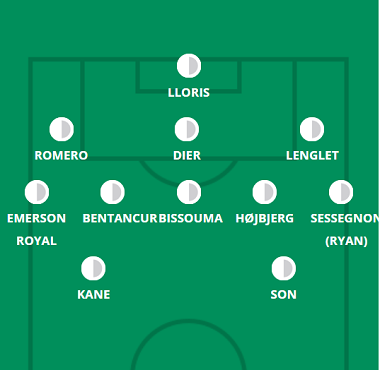
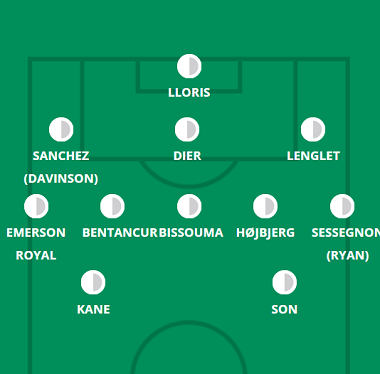
city e spurs

diff --git a/city.html b/city.html
@@ -68,7 +68,7 @@
             <hgroup>
                 <h1> Provável Escalação</h1>
                 <h2 class="direita"> por FabioVascão </h2>
-                <h3 class="direita"> Atualizado em 21/Outubro/2022 </h3>
+                <h3 class="direita"> Atualizado em 28/Outubro/2022 </h3>
             </hgroup>
     
             <h2 class="time"> <img src="_fotos/_logos/logocity.png" />Manchester City</h2>
@@ -77,9 +77,9 @@
                     <img src="_fotos/_dinamicas/city.png" />
                 </figure>
             </aside>
-                <div class="escalacao"><h2 class="titulo">Ultimas Notícias</h2> <h4><p>Kalvin Phillips (ombro) e Kyle Walker (virilha) permanecem de fora, mas John Stones (músculo posterior da coxa) está de volta ao elenco neste fim de semana, tendo voltado a treinar nos últimos dias. O City teve uma semana inteira de folga em que outras equipes estão chegando à 13° Rodada com menos de 72 horas de tempo de recuperação, então a fadiga não deve ser considerada para os atuais campeões. Todos os candidatos habituais devem estar a postos para a visita do Brighton, então, com as recorrentes decisões a serem tomadas sobre qual combinação de zagueiros se junta a João Cancelo na defesa e quem acompanha Phil Foden, Bernardo Silva, Erling Haaland, Kevin De Bruyne e Rodri mais à frente - este quinteto teve apenas um banco entre eles nos últimos oito jogos do campeonato, sendo esse o respiro de De Bruyne na vitória por 6-0 sobre o Nottingham Forest. O consenso entre os especialistas em previsão de equipes parece ser que ter Bernardo Silva e Ilkay Gundogan no time é um exagero contra um time mais conhecido por jogo baseado em posse de bola do que contra-ataques rápidos, então o alemão pode abrir caminho para acomodar o retorno de Jack Grealish, que estava em boa forma antes de ser taticamente no banco na derrota em Anfield. Na retaguarda, e assumindo que Stones não está apto para começar, estão três de quatro de Manuel Akanji, Ruben Dias, Aymeric Laporte e Nathan Ake. A ameaça de Leandro Trossard pode convencer Guardiola a optar por Akanji sobre Cancelo na lateral-direita e deixar Ruben Dias com uma corrida livre como zagueiro do lado direito, deixando Aymeric Laporte e Nathan Ake brigando pelo outro zagueiro - embora esta é toda a conjectura usual baseada em muito pouco. Laporte ainda está trabalhando para voltar à forma física e foi contratado exclusivamente para a Liga dos Campeões recentemente, mas com a viagem no meio da semana a Dortmund talvez marcada para ser um jogo mais intenso, Guardiola pode optar por colocá-lo de volta ao serviço doméstico em casa. solo. Geralmente avesso a mexer muito com uma dupla de zagueiro que está ronronando, o técnico do City acaba de ver seu time sofrer quatro gols nos últimos três jogos da liga.</p></h4><br>
+                <div class="escalacao"><h2 class="titulo">Ultimas Notícias</h2> <h4><p>Kalvin Phillips (ombro) e Kyle Walker (virilha) permanecem de fora, enquanto Erling Haaland terá que ser avaliado antes do jogo do Leicester, depois que uma combinação de fadiga, febre e uma pancada levou à sua retirada no intervalo do Dortmund na terça-feira. João Cancelo também jogou contra a gripe no primeiro tempo da partida, mas é a pancada no pé de Haaland que é a principal preocupação, e não a gripe, com Pep Guardiola dizendo em seu pré-jogo que o City teria que ver como o jogo livre marcando o norueguês "se sente em seus pés" após o treino de sexta-feira. Ele acrescentou, olhando pelo lado positivo, que Haaland estava "se sentindo melhor", depois que imagens de quarta-feira mostraram o jogador visivelmente mancando a caminho de um exame médico. As imagens do campo de treinamento não ajudaram (Haaland não foi visto, mas ele não estava sozinho, pois havia apenas nove imagens), então não sabemos se o atacante de 17 gols aparece no King Power ou não no a hora de escrever. Quanto ao resto da equipe, os bancos no meio da semana para Kevin De Bruyne, Jack Grealish, Aymeric Laporte, Ederson, Manuel Akanji e Bernardo Silva devem abrir caminho para seu retorno neste fim de semana. O City não tem nada para jogar no confronto da próxima quarta-feira com Sevilla e Guardiola se comprometeu a usar "pessoas que não jogam regularmente" nesse empate, o que sugere que nomes como Cole Palmer, Julian Alvarez, Ilkay Gundogan e o recém-formado John Stones vai ver começa no meio da semana. Talvez possamos adicionar Riyad Mahrez a essa lista também, já que o argelino fracassou em sucessivas derrotas na liga e na copa esta semana, algo que certamente verá o retorno de Phil Foden e Grealish em ambos os lados do atacante central. Sábado. Voltando ao ponto de partida, Guardiola confirmou que Alvarez é a "primeira opção" se Haaland perder - mas acrescentou que esse também seria o caso "no futuro", não necessariamente no sábado, o técnico do City acaba de ver seu time sofrer quatro gols nos últimos três jogos da liga.</p></h4><br>
                     <h4><strong>Jogadores fora da próxima partida:</strong> Phillips (Kalvin) e Walker</h4><br><br>
-                    <h4><strong>Jogadores dúvidas:</strong> </h4>
+                    <h4><strong>Jogadores dúvidas:</strong> Haaland</h4>
                 </div> 
         </header>
         </article>

diff --git a/tot.html b/tot.html
@@ -68,7 +68,7 @@
             <hgroup>
                 <h1> Provável Escalação</h1>
                 <h2 class="direita"> por FabioVascão </h2>
-                <h3 class="direita"> Atualizado em 21/Outubro/2022 </h3>
+                <h3 class="direita"> Atualizado em 28/Outubro/2022 </h3>
             </hgroup>
     
             <h2 class="time"> <img src="_fotos/_logos/logospurs.png" />Tottenham</h2>
@@ -77,7 +77,7 @@
                     <img src="_fotos/_dinamicas/tot.png" />
                 </figure>
             </aside>
-                <div class="escalacao"><h2 class="titulo">Ultimas Notícias</h2> <h4><p>Richarlison (panturrilha) e Dejan Kulusevski (músculo posterior da coxa) permanecerão afastados por um período considerável, mas Emerson Royal retorna de uma suspensão de três jogos e os Spurs não têm novas preocupações com a derrota para o Manchester United. Yves Bissouma para Richarlison é a única mudança de Antonio Conte nas últimas duas semanas de jogos, então há todas as chances de vermos mais algumas alterações no jogo de domingo, já que o chefe dos Spurs tenta gerenciar minutos durante um período movimentado. Ryan Sessegnon e Emerson parecem fortes candidatos para substituir Matt Doherty e Ivan Perisic na lateral, embora Perisic seja uma opção nos três primeiros se Conte quiser reverter para um 3-4-3. Tendo manifestado a sua preferência por essa formação antes do jogo do Manchester United e depois não a ter utilizado, Conte disse na sexta-feira que "a melhor situação, com os jogadores disponíveis, é jogar com os três médios". Ele poderia estar tentando varrer o tapete debaixo de nós e de Eddie Howe mais uma vez, mas com Perisic indo para a 13ª rodada após duas partidas consecutivas, com Lucas Moura aumentando a preparação para o jogo e com Bryan Gil relativamente não testado, um 3-5- 2 parece o mais provável dos dois cenários neste fim de semana. Oliver Skipp tem uma chance externa de aparecer em vez de uma das três escolhas na sala de máquinas, mas uma mudança mais concebível, dado o recente tempo de jogo compartilhado no zagueiro do lado esquerdo, é Clement Lenglet no lugar de Ben Davies.</p></h4><br>
+                <div class="escalacao"><h2 class="titulo">Ultimas Notícias</h2> <h4><p>Richarlison (panturrilha) e Dejan Kulusevski (músculo posterior da coxa) continuam afastados, mas os Spurs não têm outras lesões, com Cristian Romero (panturrilha) e Pierre-Emile Hojbjerg (coxa) retornando à ação na quarta-feira. Enquanto Antonio Conte disse que Hojbjerg estava "100%" em forma, ele acrescentou que Romero estava "muito cansado" e precisaria ser "gerenciado" com mais jogos em mente - o próximo dos quais é um grande jogo da fase de grupos da Liga dos Campeões na terça-feira. Não se surpreenda ao ver Davinson Sanchez entrar para esta partida, embora possa haver outras alterações de preservação de energia com a viagem a Marselha em mente, com o zagueiro esquerdo e dois laterais compartilhamento de minutos nesta temporada; Clement Lenglet, Emerson Royal e Ryan Sessegnon estavam todos no banco na quarta-feira, mas seria loucura pensar que as partidas para este trio estão garantidas como uma consequência direta. Lucas Moura fez sua primeira partida de temporada no meio da semana, então deve haver perguntas sobre se o brasileiro está apto o suficiente para reunir corridas consecutivas no espaço de 72 horas, enquanto Bryan Gil foi elogiado em parte por seu gerente, mas também não considerou "físico" o suficiente para a Premier League. Pode ser um clássico de Conte, é claro, mas ele pode ter que jogar um 3-5-2 no Vitality com falta de opções de ataque: Yves Bissouma e Oliver Skipp são os corpos adicionais a serem considerados na volância.</p></h4><br>
                     <h4><strong>Jogadores fora da próxima partida:</strong> Bergwijn, Kulusevski e Richarlison</h4><br><br>
                     <h4><strong>Jogadores dúvidas:</strong> </h4>
                 </div> 
